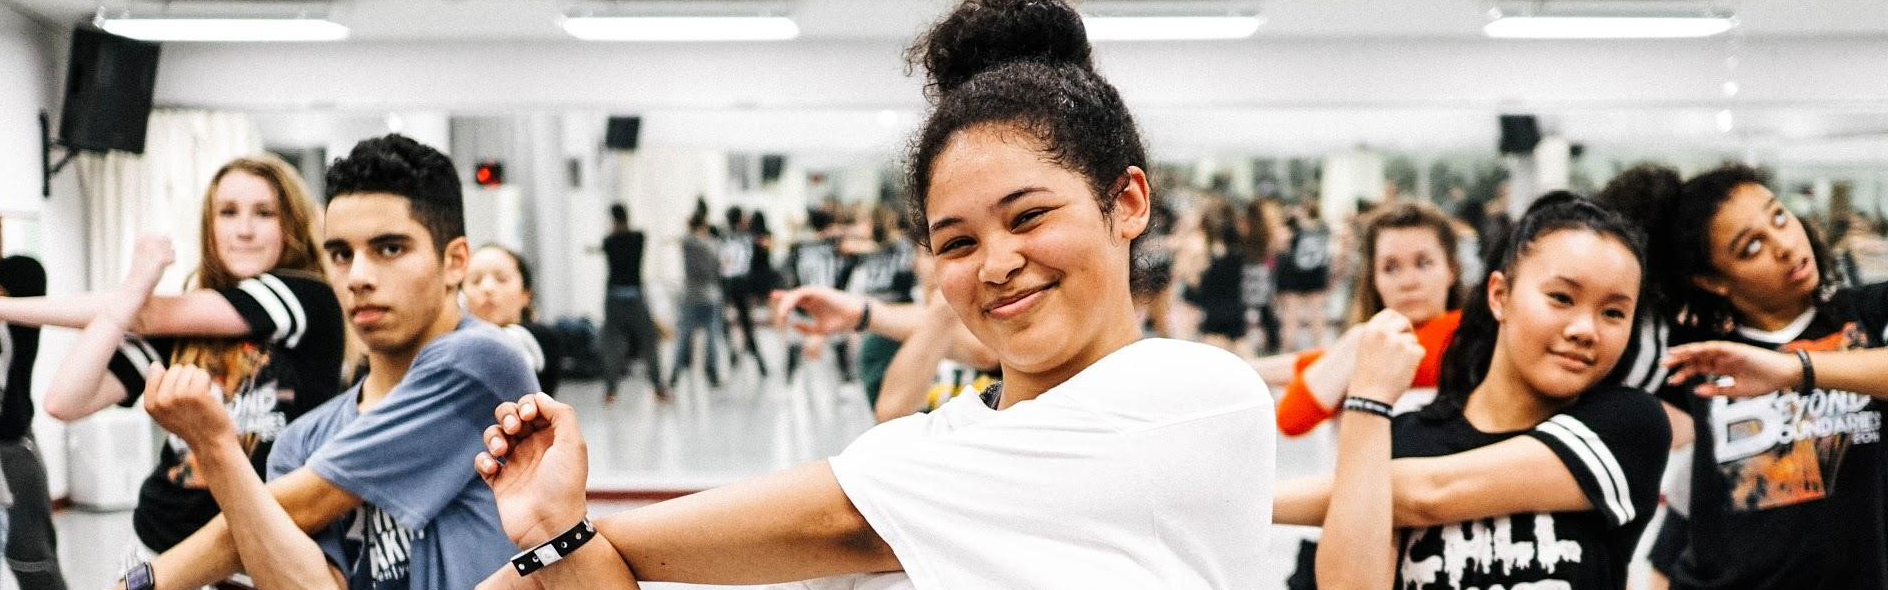
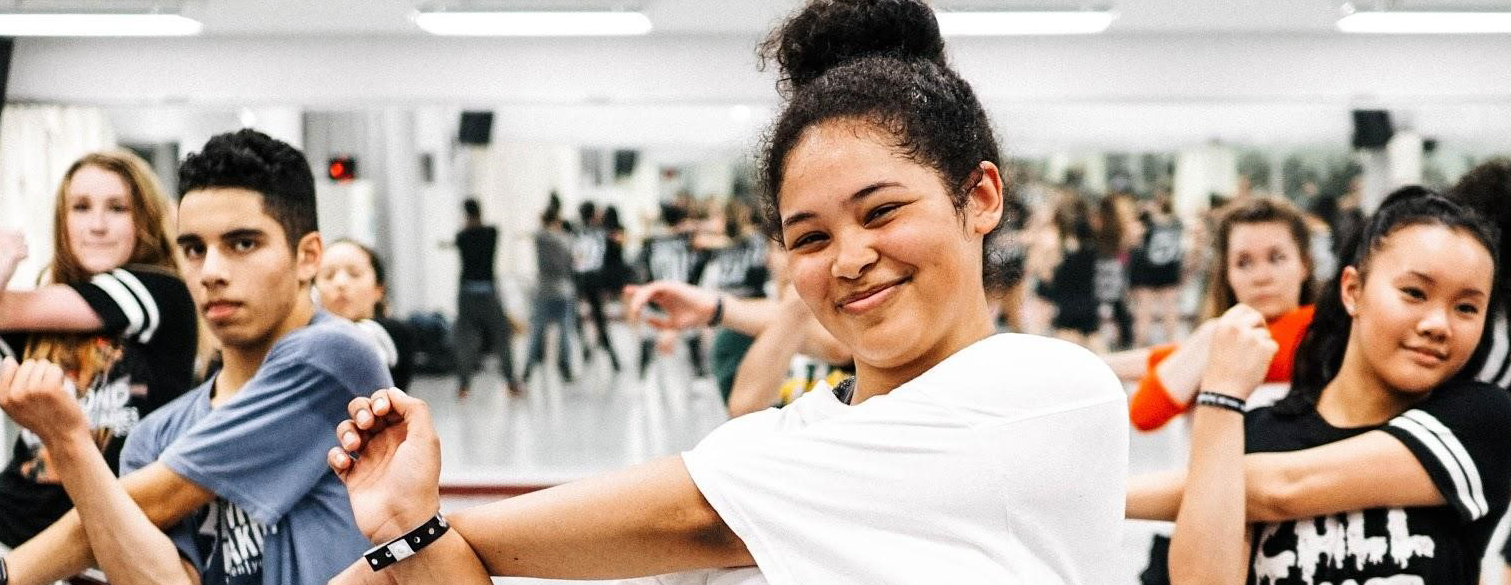
+++infobanner images, crop infobanner images so they are taller rather than wider

diff --git a/public/js/info_banner.js b/public/js/info_banner.js
@@ -464,7 +464,7 @@
           'http://link1.org'
         ],
         images : [
-          'images/info_banner/side-by-side-oculus.jpg',
+          'images/info_banner/side-by-side-oculus.png',
           'image_path_1'
         ],
         articles : [
@@ -526,7 +526,7 @@
           'http://link1.org'
         ],
         images : [
-          'images/info_banner/creativity-intern-3-768x263.jpg',
+          'images/info_banner/creativity-intern-3-768x263.png',
           'image_path_1'
         ],
         articles : [

diff --git a/public/index.html b/public/index.html
@@ -300,7 +300,7 @@
                   foundry10
                 </span>
                 is redefining education through
-                <span  id="banner-header" style="color:#fa9c42;border-bottom: 3px solid #fa9c42;">
+                <span  id="banner-header" style="color:#fa9c42;border-bottom: 4px solid white;">
                   robotics
                 </span>
               </h2>
